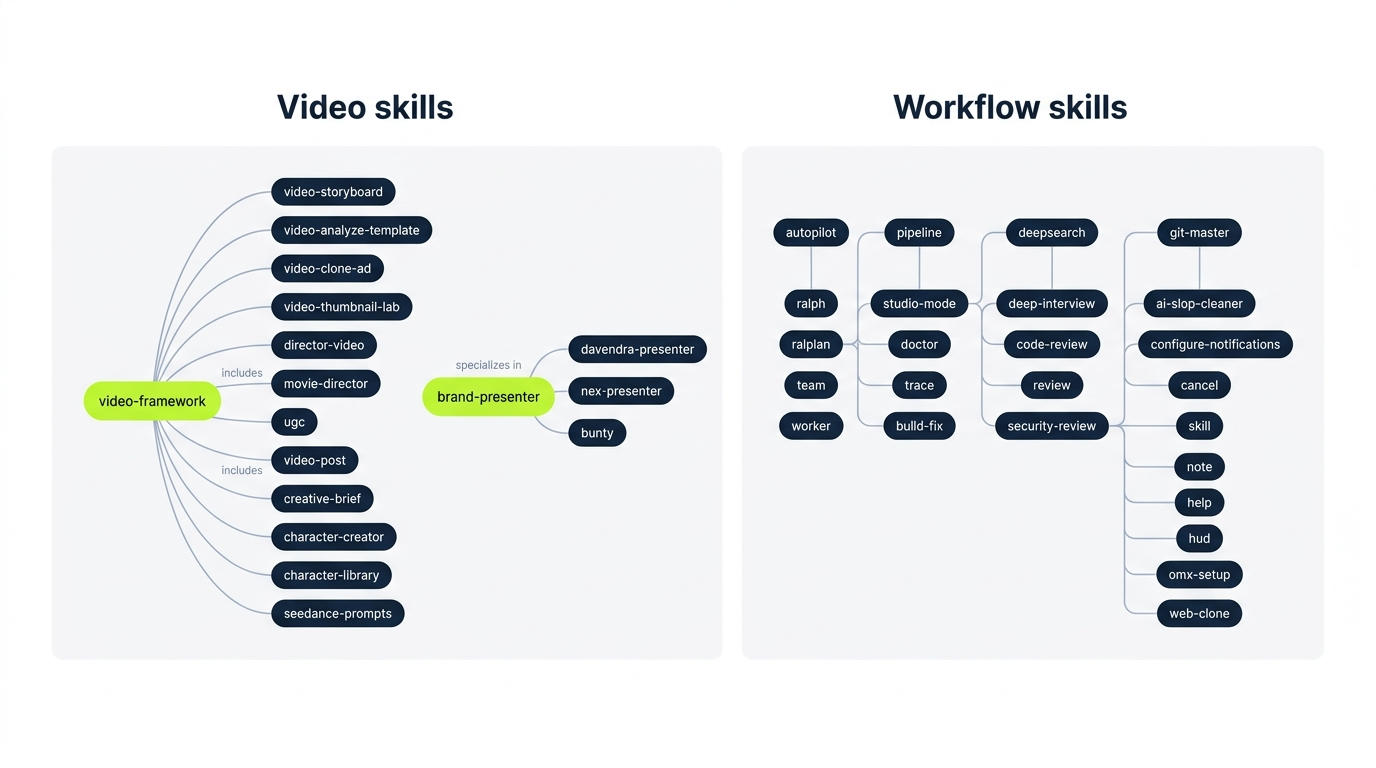
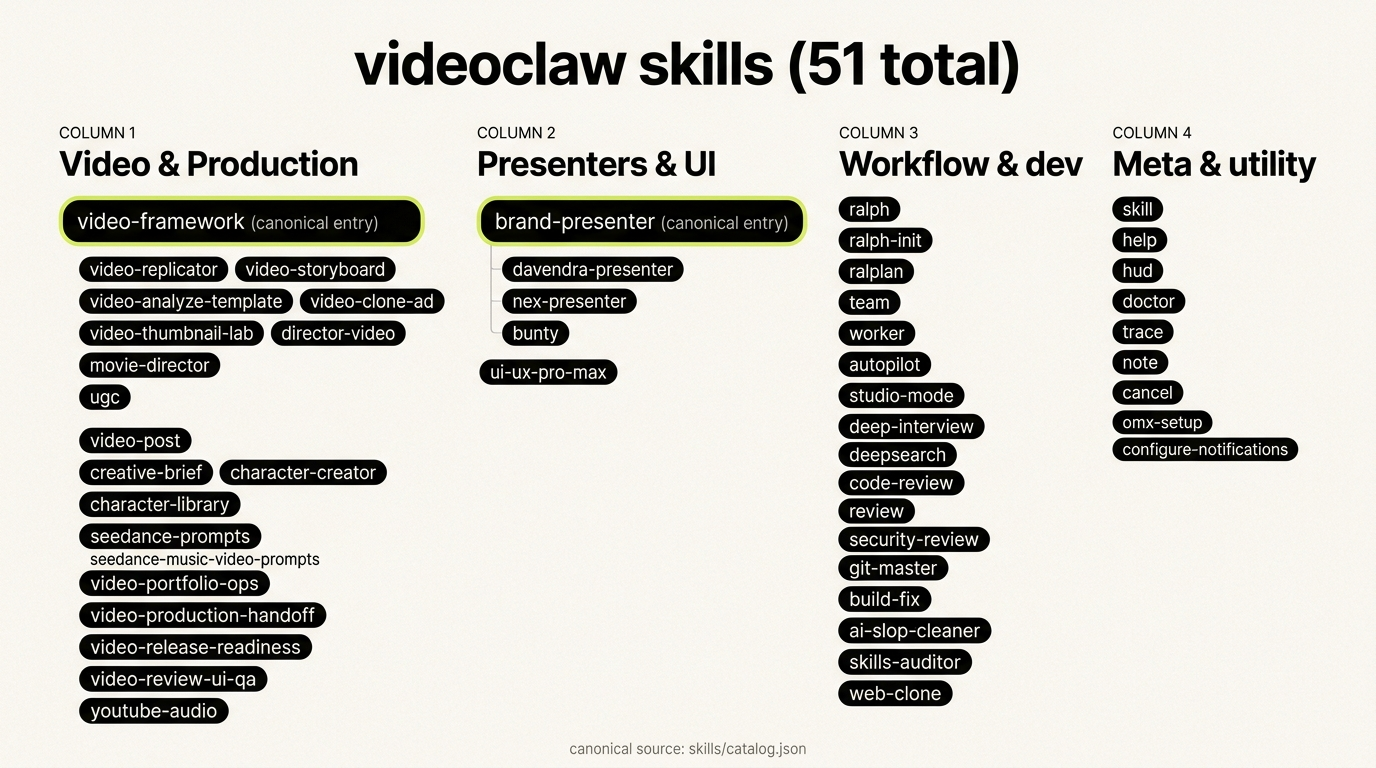
Phase 7c: regenerate 3 outdated diagrams via Go Bananas Pro from Mermaid sources
User wanted the diagrams updated to reflect v2 reality (Phase 5b Runway,
Phase 4b Python sidecar consolidation, Phase 7 51-skill set). Workflow:

1. Wrote authoritative Mermaid source for the 3 diagrams to
   docs/DIAGRAMS_SOURCE.md (text-perfect, version-controlled, the
   source of truth going forward).
2. Used Go Bananas Pro `gemini-pro-image` (2k resolution, 16:9 / 3:4)
   with detailed prompts derived from the Mermaid sources. Per-prompt
   guidance instructed exact text rendering with no paraphrasing.
3. Downloaded the 3 generated JPGs and replaced the existing ones at
   the same paths so README.md / docs/ARCHITECTURE.md / docs/OBSIDIAN.md
   / docs/SKILLS.md pick up the new versions without any markdown
   change.

Diagrams replaced:

- docs/assets/diagram-architecture.jpg — now shows the two opt-in
  sidecars (vclaw-cli/ Bun for Veo + UseAPI, skills/video-replicator/
  scripts/ for the 122-module Python pipeline) connected via dashed
  vermilion borders. Adds native-runway to the native transports row.
- docs/assets/diagram-routing.jpg — now shows all 5 routes in the
  selected-route node, and the post-Phase-5b built-in adapter
  coverage (seedance-direct · veo-useapi · runway-useapi). The
  native-creds row mentions the 3 routes with native transports.
- docs/assets/diagram-skills-ecosystem.jpg — now shows all 51 skills
  in 4 columns (Video & Production · Presenters & UI · Workflow & dev
  · Meta & utility). Both canonical-entry skills (video-framework,
[…]

Changed region(s): [[0.0312, 0.0312, 0.9688, 0.9688], [0.4062, 0.9688, 0.5938, 1.0]]

diff --git a/docs/DIAGRAMS_SOURCE.md b/docs/DIAGRAMS_SOURCE.md
@@ -1,0 +1,157 @@
+# Diagrams Source
+
+This file is the **canonical source** for the diagrams used in `README.md`,
+`docs/ARCHITECTURE.md`, and other top-level docs. The Mermaid blocks below
+are the human-readable, version-controlled source of truth. The
+corresponding JPGs in `docs/assets/diagram-*.jpg` are rendered from these
+sources (via Go Bananas Pro `workflow-diagrams` skill, or any Mermaid
+renderer).
+
+If a diagram looks out of date in the rendered JPG, update the Mermaid
+here first, then regenerate the JPG.
+
+---
+
+## 1. Architecture (`docs/assets/diagram-architecture.jpg`)
+
+Shows the request flow from operator/agent through the CLI into the
+domain layer, the artifact/event ledger, the execution runtime, and the
+adapter tier. Plus the two opt-in sidecars (`vclaw-cli/` Bun package and
+`skills/video-replicator/scripts/` Python pipeline) that the main
+TypeScript repo invokes via subprocess when needed.
+
+```mermaid
+flowchart TD
+  Operator(["Operator / AI Agent"]) --> CLI["vclaw CLI<br/>(src/cli/vclaw.ts)"]
+  CLI --> Domain["Domain modules<br/>(src/video/*.ts)"]
+  Domain --> Artifacts[("artifacts/<br/>JSON canonical")]
+  Domain --> Checkpoints[("checkpoints/<br/>stage approvals")]
+  Domain --> Events[("events/events.jsonl<br/>append-only ledger")]
+  Domain --> Runtime["Execution runtime<br/>(execution-runtime.ts)"]
+  Runtime --> Adapter["Adapter layer<br/>(provider-adapter-runner.ts)"]
+  Adapter --> Native["Native in-process<br/>native-veo · native-seedance · native-runway"]
+  Adapter --> Shim["Command shim<br/>(VCLAW_*_SUBMIT_CMD)"]
+  Adapter --> Custom["Custom adapter binary<br/>(VCLAW_*_ADAPTER)"]
+  Native -.optional sidecar.-> VclawCli["vclaw-cli/<br/>Bun · Google Flow + UseAPI"]
+  Domain -.optional sidecar.-> Python["skills/video-replicator/scripts/<br/>Python 3.10+ · 122 modules"]
+
+  classDef entry fill:#d4ed5b,stroke:#1a1815,color:#1a1815,stroke-width:2px
+  classDef core fill:#1a1815,stroke:#1a1815,color:#faf8f5
+  classDef store fill:#f0ece6,stroke:#7a756d,color:#1a1815
+  classDef sidecar fill:#fff,stroke:#c4450c,color:#c4450c,stroke-dasharray: 5 3
+  class Operator entry
+  class CLI,Domain,Runtime,Adapter,Native,Shim,Custom core
+  class Artifacts,Checkpoints,Events store
+  class VclawCli,Python sidecar
+```
+
+---
+
+## 2. Provider routing (`docs/assets/diagram-routing.jpg`)
+
+Decision tree the dispatcher walks for each route. Hard-fails by design
+if no path resolves — no silent fallback across materially different
+provider paths.
+
+```mermaid
+flowchart TD
+  Start(["Provider route selected<br/>(veo-direct · veo-useapi · seedance-direct ·<br/>runway-useapi · kling-useapi)"]) --> Q1{"VCLAW_*_ADAPTER<br/>env var set?"}
+  Q1 -->|Yes| Custom["✅ Custom adapter binary<br/>stdin → JSON, stdout → JSON"]
+  Q1 -->|No| Q2{"Built-in adapter<br/>supports route?<br/>(seedance-direct · veo-useapi ·<br/>runway-useapi)"}
+  Q2 -->|No| Fail1["❌ Hard fail<br/>no silent fallback"]
+  Q2 -->|Yes| Q3{"VCLAW_*_SUBMIT_CMD<br/>set?"}
+  Q3 -->|Yes| Shim["✅ Command shim<br/>through built-in adapter"]
+  Q3 -->|No| Q4{"Native creds available?<br/>SUTUI_API_KEY (seedance) ·<br/>local vclaw-cli (veo) ·<br/>USEAPI_API_TOKEN (runway)"}
+  Q4 -->|Yes| Native["✅ Native in-process transport"]
+  Q4 -->|No| Fail2["❌ Hard fail"]
+
+  classDef decision fill:#d4ed5b,stroke:#1a1815,color:#1a1815
+  classDef terminal fill:#1a1815,stroke:#1a1815,color:#faf8f5
+  classDef fail fill:#c4450c,stroke:#1a1815,color:#faf8f5
+  class Q1,Q2,Q3,Q4 decision
+  class Custom,Shim,Native,Start terminal
+  class Fail1,Fail2 fail
+```
+
+---
+
+## 3. Skills ecosystem (`docs/assets/diagram-skills-ecosystem.jpg`)
+
+51 skills as of 2026-05-25, grouped by purpose. The current canonical
+source is `skills/catalog.json` — this diagram is illustrative.
+
+Two canonical entry points (highlighted): **`video-framework`** for
+generic video requests (delegates to specialist children), and
+**`brand-presenter`** for branded host/presenter videos (specialized
+by bunty / davendra / nex profiles).
+
+```mermaid
+flowchart LR
+  subgraph Video["Video & Production skills"]
+    direction TB
+    VF["video-framework<br/>(canonical entry)"]:::entry
+    VF --> VR["video-replicator"]
+    VF --> VS["video-storyboard"]
+    VF --> VAT["video-analyze-template"]
+    VF --> VCA["video-clone-ad"]
+    VF --> VTL["video-thumbnail-lab"]
+    VF --> DV["director-video"]
+    VF --> MD["movie-director"]
+    VF --> UGC["ugc"]
+    VF --> VP["video-post"]
+    VF --> CB["creative-brief"]
+    VF --> CC["character-creator"]
+    VF --> CL["character-library"]
+    VF --> SP["seedance-prompts"]
+    VF --> SMP["seedance-music-video-prompts"]
+    VF --> VPO["video-portfolio-ops"]
+    VF --> VPH["video-production-handoff"]
+    VF --> VRR["video-release-readiness"]
+    VF --> VRQ["video-review-ui-qa"]
+    VF --> YA["youtube-audio"]
+  end
+
+  subgraph Presenters["Presenter skills"]
+    direction TB
+    BP["brand-presenter<br/>(canonical entry)"]:::entry
+    BP --> DP["davendra-presenter"]
+    BP --> NP["nex-presenter"]
+    BP --> BUNTY["bunty"]
+    UIUX["ui-ux-pro-max"]
+  end
+
+  subgraph Workflow["Workflow & dev skills"]
+    direction TB
+    Ralph["ralph"] --- RalphInit["ralph-init"]
+    Ralplan["ralplan"]
+    Team["team"] --- Worker["worker"]
+    Autopilot["autopilot"]
+    Pipeline["pipeline"]
+    StudioMode["studio-mode"]
+    DeepInterview["deep-interview"]
+    Deepsearch["deepsearch"]
+    CodeReview["code-review"]
+    Review["review"]
+    SecReview["security-review"]
+    GitMaster["git-master"]
+    BuildFix["build-fix"]
+    AISlop["ai-slop-cleaner"]
+    SkillsAuditor["skills-auditor"]
+    WebClone["web-clone"]
+  end
+
+  subgraph Meta["Meta & utility skills"]
+    direction TB
+    Skill["skill"]
+    Help["help"]
+    HUD["hud"]
+    Doctor["doctor"]
+    Trace["trace"]
+    Note["note"]
+    Cancel["cancel"]
+    OMXSetup["omx-setup"]
+    ConfigNotif["configure-notifications"]
+  end
+
+  classDef entry fill:#d4ed5b,stroke:#1a1815,color:#1a1815,stroke-width:2px
+```